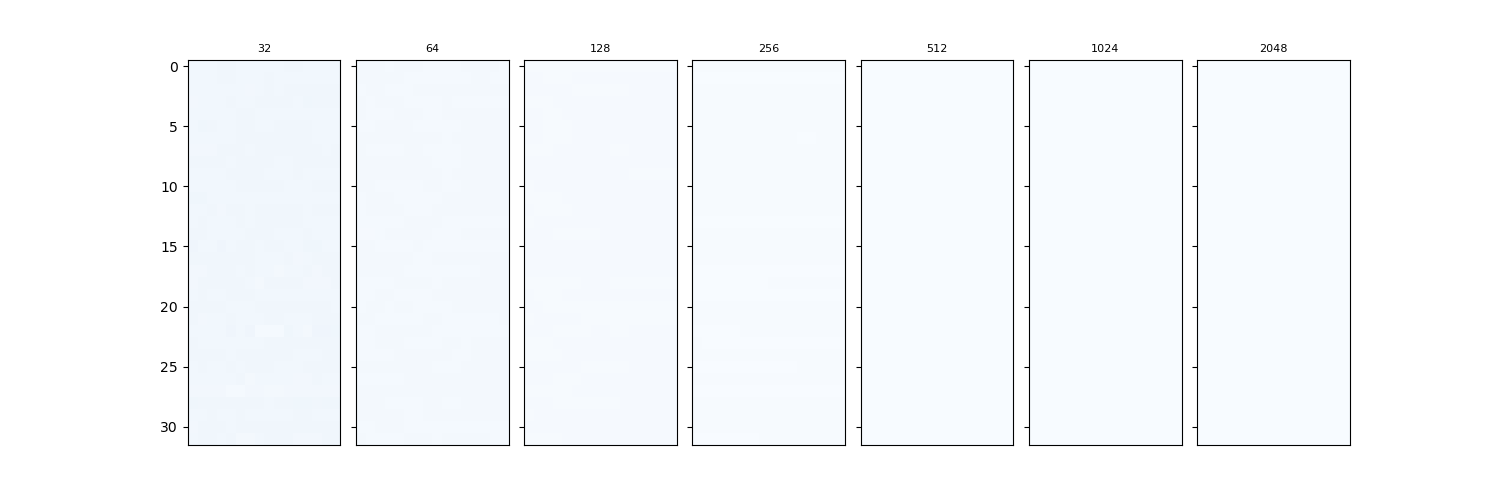
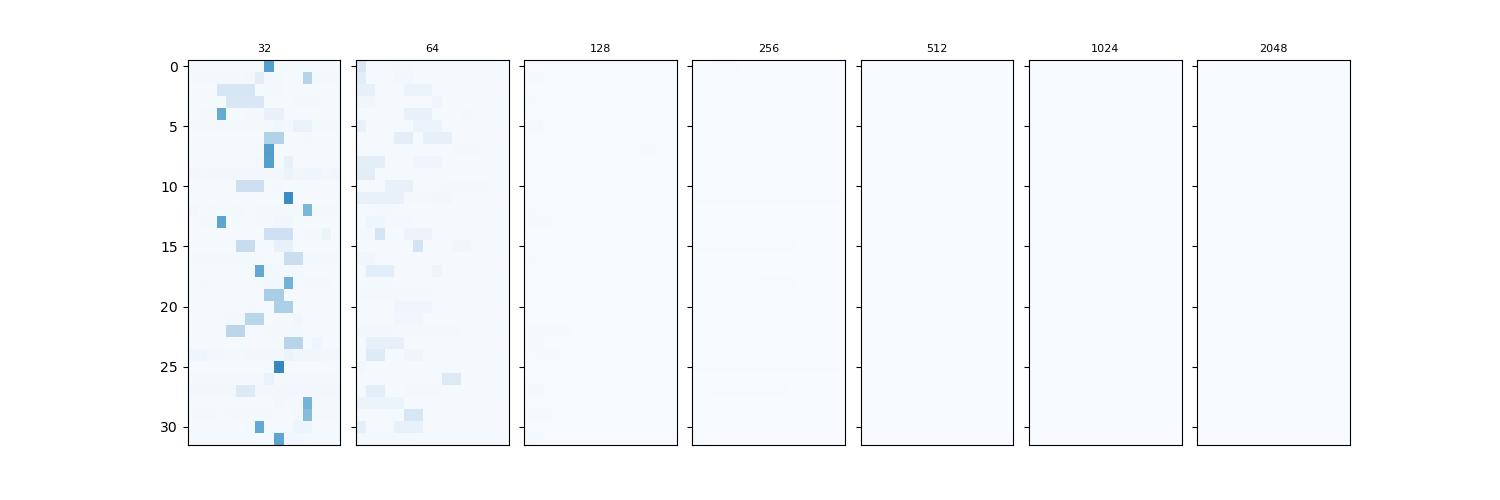
ckpt

diff --git a/experiments/max_retrieval_stieltjes.py b/experiments/max_retrieval_stieltjes.py
@@ -5,7 +5,6 @@
 
 """
 TODO:
- - fix sorting in plots
  - validation (both in and out of distribution)
  - plot training time (title) with various approaches
  - plot train, val learning curves
@@ -74,7 +73,7 @@ class SelfAttnLayer(nn.Module):
 
         attn_scores = torch.matmul(q, k.transpose(-2, -1))  #(B, T, T)
 
-        if self._translate_logits == 'softmax': #scale for traditional softmax
+        if self._translate_logits == 'traditional': #scale for traditional softmax
             attn_scores *= q.size(-1) ** -0.5
 
         #causal mask removed for this task, allowing global attention.
@@ -149,18 +148,39 @@ def plot_max_retrieval_attention(model, embedding, device, name, start_len=32, n
 if __name__ == '__main__':
     results_folder = './results/'
 
-    #hyperparameters
-    d_emb = 16
-    epochs = 50
+    #hyperparams
+    d_emb = 32
+    epochs = 20
     batch_size = 1028
     max_len_seq = 32
+    ood_len_seq = 128
     device = 'cuda' if torch.cuda.is_available() else 'cpu'
 
-    #dataset
+    #train data
     train_data = make_dataset(102800, max_len_seq)
     train_dataset = MaxDataset(train_data)
     dataloader = DataLoader(
         train_dataset, 
+        batch_size=batch_size, 
+        shuffle=True, 
+        collate_fn=collate_max_data
+    )
+
+    #validation on in distribution data
+    val_data_ID = make_dataset(1028, max_len_seq)
+    val_ID_dataset = MaxDataset(val_data_ID)
+    dataloader_val_ID = DataLoader(
+        val_ID_dataset, 
+        batch_size=batch_size, 
+        shuffle=True, 
+        collate_fn=collate_max_data
+    )
+    
+    #validation on OOD data
+    val_data_OOD = make_dataset(1028, ood_len_seq)
+    val_OOD_dataset = MaxDataset(val_data_OOD)
+    dataloader_val_OOD = DataLoader(
+        val_OOD_dataset, 
         batch_size=batch_size, 
         shuffle=True, 
         collate_fn=collate_max_data
@@ -172,11 +192,11 @@ if __name__ == '__main__':
         #model
         embedding = nn.Embedding(30, d_emb).to(device)
         model = SelfAttnLayer(d_emb, softmax=logits_translation).to(device)
-        optimizer = optim.AdamW(list(model.parameters()) + list(embedding.parameters()), lr=1e-4)
+        optimizer = optim.AdamW(list(model.parameters()) + list(embedding.parameters()), lr=1e-3)
         loss_fn = nn.MSELoss()
 
         for epoch in range(epochs):
-            total_loss = 0
+            train_loss, val_ID_loss, val_OOD_loss = 0, 0, 0
             for xs, ys in dataloader:
                 xs = xs.to(device)
                 ys = ys.to(device)
@@ -191,14 +211,35 @@ if __name__ == '__main__':
                 
                 loss.backward()
                 optimizer.step()
-                total_loss += loss.item()
+                train_loss += loss.item()
 
-                #TODO:
-                #val
-                #model.eval()
-                #...
+            #val
+            model.eval()
+            for xs, ys in dataloader_val_ID: #in distribution
+                xs = xs.to(device)
+                ys = ys.to(device)
+                optimizer.zero_grad()
+                
+                emb = embedding(xs)
+                out = model(emb)
+                pred = out[:, -1, 0]
+                
+                loss = loss_fn(pred, ys.float())
+                val_ID_loss += loss.item()
+
+            for xs, ys in dataloader_val_OOD: #out of distribution
+                xs = xs.to(device)
+                ys = ys.to(device)
+                optimizer.zero_grad()
+                
+                emb = embedding(xs)
+                out = model(emb)
+                pred = out[:, -1, 0]
+                
+                loss = loss_fn(pred, ys.float())
+                val_OOD_loss += loss.item() 
             
-            print(f'Epoch {epoch+1} | Train Loss: {total_loss:.4f}')# | Val Loss: {val_loss:.4f}')
+            print(f'Epoch {epoch+1} | Train Loss: {train_loss:.4f} | Val Loss (in dist): {val_ID_loss:.4f} | Val Loss (OOD): {val_OOD_loss:.4f}')
 
         print(f'Time to train using {logits_translation}: {time.time() - start}')
         plot_max_retrieval_attention(model, embedding, device, results_folder + logits_translation)

diff --git a/experiments/softmax_fns.py b/experiments/softmax_fns.py
@@ -74,6 +74,7 @@ class StieltjesTransform(CustomSoftmaxFn):
         eps: float = 1e-9,
     ) -> torch.Tensor:
         """Calculates 1 / (lambda_q - x_i)^q"""
+        logits = torch.clamp(logits, min=-50.0, max=50.0)
         x_max = torch.max(logits, dim=dim, keepdim=True).values
         x_i = logits - x_max
 
